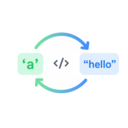
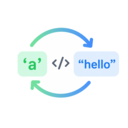
Improve ReQuote logic execution
- add few edge cases
- add README.rst

Changed region(s): [[0.1562, 0.1875, 0.9062, 0.7812]]

diff --git a/src/quote.ts b/src/quote.ts
@@ -1,43 +1,58 @@
 const QUOTE_PATTERN = /(["'`])((?:\\.|(?!\1)[^\\])*)\1/;
 
+const TRIPLE_QUOTE_PATTERN = /^("""[\s\S]*"""|'''[\s\S]*''')$/;
+
 export const SUPPORTED_LANGUAGES = new Set([
-    "c",
-    "cpp",
-    "csharp",
-    "dart",
-    "javascript",
-    "javascriptreact",
-    "php",
-    "python",
-    "ruby",
-    "rust",
-    "svelte",
-    "typescript",
-    "typescriptreact",
-    "vue",
+  "c",
+  "cpp",
+  "csharp",
+  "dart",
+  "javascript",
+  "javascriptreact",
+  "php",
+  "python",
+  "ruby",
+  "rust",
+  "svelte",
+  "typescript",
+  "typescriptreact",
+  "vue",
 ]);
 
 function hasInterpolation(inner: string): boolean {
   return /\$\{/.test(inner);
 }
 
+export function isCompleteString(text: string): boolean {
+  if (TRIPLE_QUOTE_PATTERN.test(text.trim())) { return false; }
+  return QUOTE_PATTERN.test(text);
+}
+
 export function targetQuote(quote: string, inner: string): string {
-  if (quote === "`" && hasInterpolation(inner)) { return "`"; }
+  if (quote === '`' && hasInterpolation(inner)) {
+    return '`';
+  }
   const isMultiChar = [...inner].length > 1;
   return isMultiChar ? '"' : "'";
 }
 
 export function reEscape(inner: string, from: string, to: string): string {
   return inner
-    .replace(new RegExp(`\\\\${from}`, "g"), from)
-    .replace(new RegExp(to === "`" ? "`" : to, "g"), `\\${to}`);
+    .replace(new RegExp(`\\\\${from}`, 'g'), from)
+    .replace(new RegExp(to === '`' ? '`' : to, 'g'), `\\${to}`);
 }
 
 export function flipQuotes(text: string): string {
-    const regex = new RegExp(QUOTE_PATTERN.source, "g");
-    return text.replace(regex, (_, quote, inner) => {
-        const next = targetQuote(quote, inner);
-        if (next === quote) { return _; }
-        return next + reEscape(inner, quote, next) + next;
-    });
+  const regex = new RegExp(QUOTE_PATTERN.source, 'g');
+  return text.replace(regex, (match, quote, inner) => {
+    if (TRIPLE_QUOTE_PATTERN.test(match)) { return match; }
+
+    if (!isCompleteString(match)) { return match; }
+
+    const next = targetQuote(quote, inner);
+    if (next === quote) {
+      return match;
+    }
+    return next + reEscape(inner, quote, next) + next;
+  });
 }

diff --git a/src/extension.ts b/src/extension.ts
@@ -5,6 +5,8 @@ import { flipQuotes, SUPPORTED_LANGUAGES } from './quote';
 
 const EXT = "ReQuote";
 
+const DEBOUNCE_DELAY = 600;
+
 
 // Core logic
 
@@ -14,6 +16,8 @@ async function runOnEditor(editor = vscode.window.activeTextEditor): Promise<voi
     if (!editor || isEditing) { return; }
 
     if (!SUPPORTED_LANGUAGES.has(editor.document.languageId)) { return; }
+
+    if (isCursorInsideUnclosedString(editor)) { return;}
 
     isEditing = true;
     try {
@@ -31,6 +35,31 @@ async function runOnEditor(editor = vscode.window.activeTextEditor): Promise<voi
     } finally {
         isEditing = false;
     }
+}
+
+
+// Helpers
+
+function isLangSupported(document: vscode.TextDocument): boolean {
+  const config = vscode.workspace.getConfiguration(EXT);
+  const langs = new Set(config.get<string[]>("languages") ?? []);
+  return langs.has(document.languageId);
+}
+
+function isCursorInsideUnclosedString(editor: vscode.TextEditor): boolean {
+  for (const sel of editor.selections) {
+    const line = editor.document.lineAt(sel.active.line).text;
+    const col = sel.active.character;
+    const before = line.slice(0, col);
+
+    const countUnescaped = (str: string, q: string) =>
+      (str.match(new RegExp(`(?<!\\\\)${q}`, 'g')) ?? []).length;
+
+    for (const q of ['"', "'", '`']) {
+      if (countUnescaped(before, q) % 2 !== 0) { return true; }
+    }
+  }
+  return false;
 }
 
 
@@ -61,19 +90,20 @@ function registerAutoRefactor(context: vscode.ExtensionContext): void {
             const config = vscode.workspace.getConfiguration(EXT);
             if (!config.get<boolean>("autoRefactor")) { return; }
 
-            const langs = new Set(config.get<string[]>("languages") ?? []);
-            if (!langs.has(document.languageId)) { return; }
-
             const editor = vscode.window.activeTextEditor;
             if (!editor || editor.document !== document) { return; }
+            if (!isLangSupported(document)) { return; }
 
             clearTimeout(debounceTimer);
             debounceTimer = setTimeout(() => {
                 void runOnEditor(editor);
-            }, 300);
+            }, DEBOUNCE_DELAY);
         }),
     );
 }
+
+
+// Lifecycle
 
 export function activate(context: vscode.ExtensionContext): void {
     registerCommands(context);

diff --git a/.github/README.rst b/.github/README.rst
@@ -1,0 +1,38 @@
+ReQuote
+=======
+
+A VS Code extension that enforces quote style by content length.
+
+- Single char strings use single quotes -> ``'a'``
+- Multi-char strings use double quotes -> ``"hello"``
+
+Supports JavaScript, TypeScript, Python, Rust, and `more <https://github.com/PaulMarisOUMary/ReQuote>`_.
+
+Usage
+-----
+
+Quotes are fixed automatically as you type. To toggle manually: ``Alt+Q``.
+
+To disable auto-refactor: ``Ctrl+,`` -> search ``ReQuote: Auto Refactor`` -> uncheck.
+
+Settings
+--------
+
+.. list-table::
+   :widths: 35 15 50
+   :header-rows: 1
+
+   * - Setting
+     - Default
+     - Description
+   * - ``reQuote.autoRefactor``
+     - ``true``
+     - Flip quotes automatically on keystroke
+   * - ``reQuote.languages``
+     - see extension
+     - Languages where ReQuote is active
+
+License
+-------
+
+MIT

diff --git a/CHANGELOG.md b/CHANGELOG.md
@@ -1,0 +1,7 @@
+# Change Log
+
+Notable changes to the "ReQuote".
+
+## [0.0.1]
+
+- Initial release